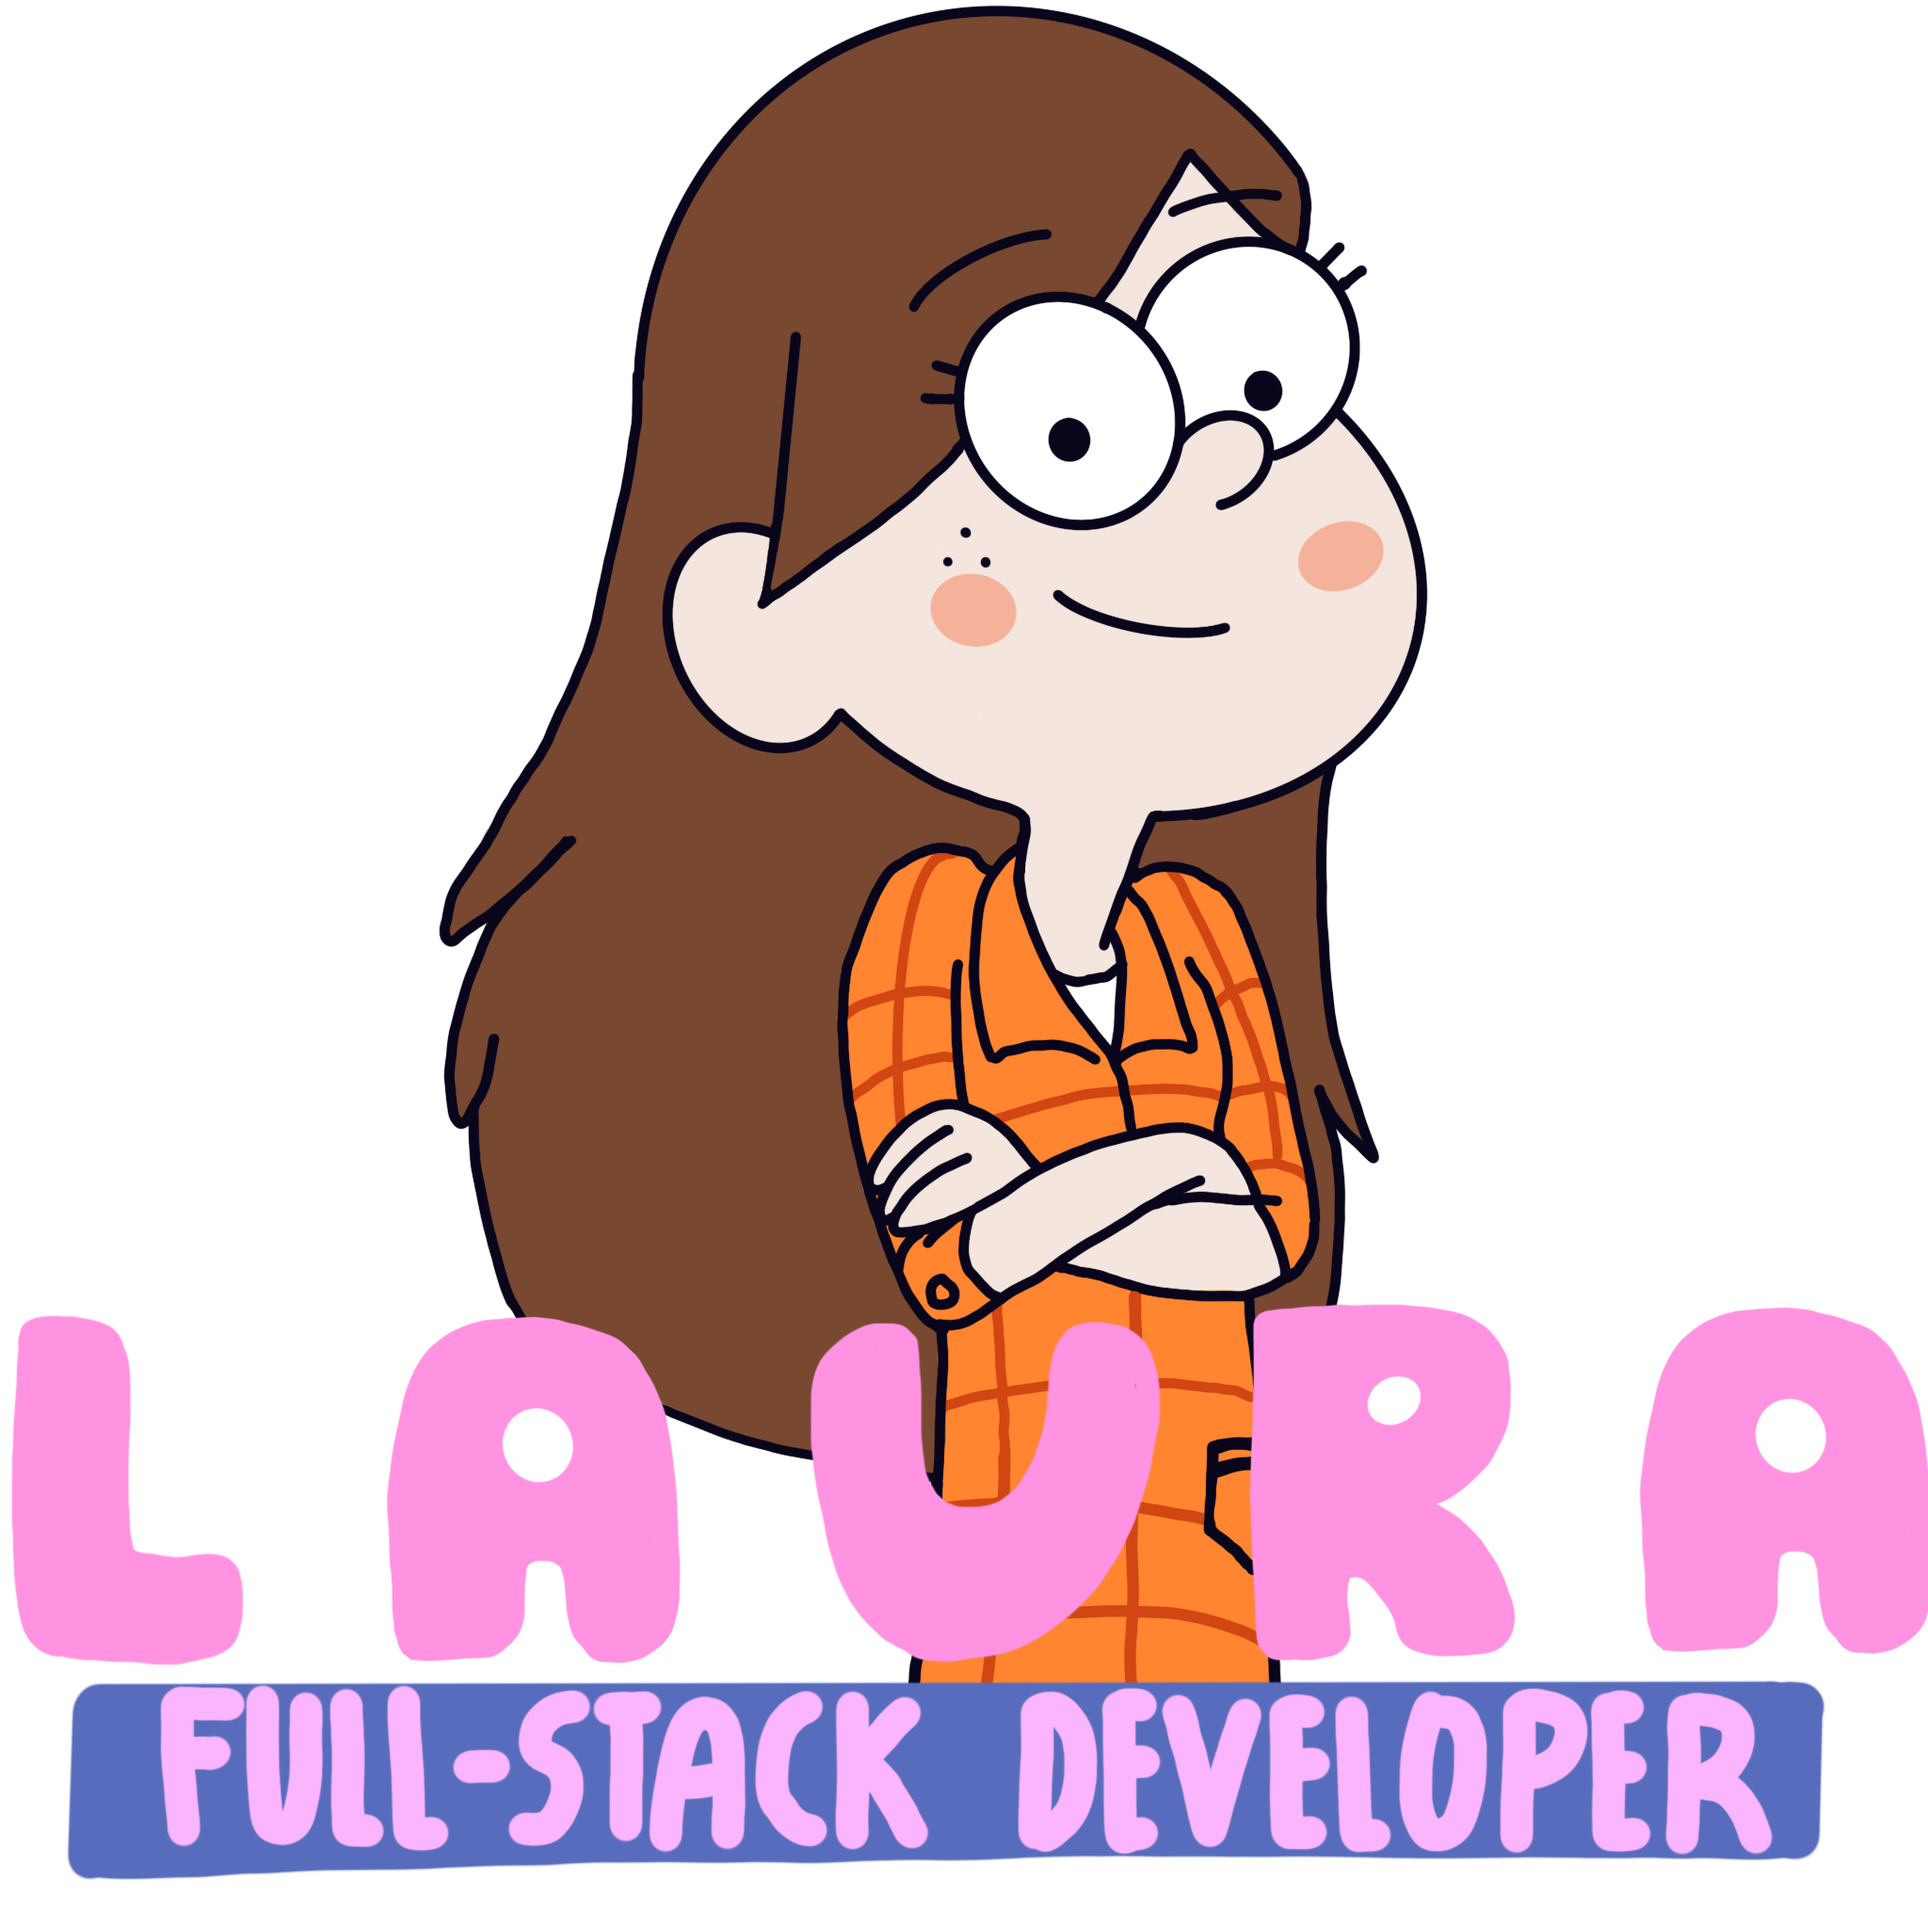
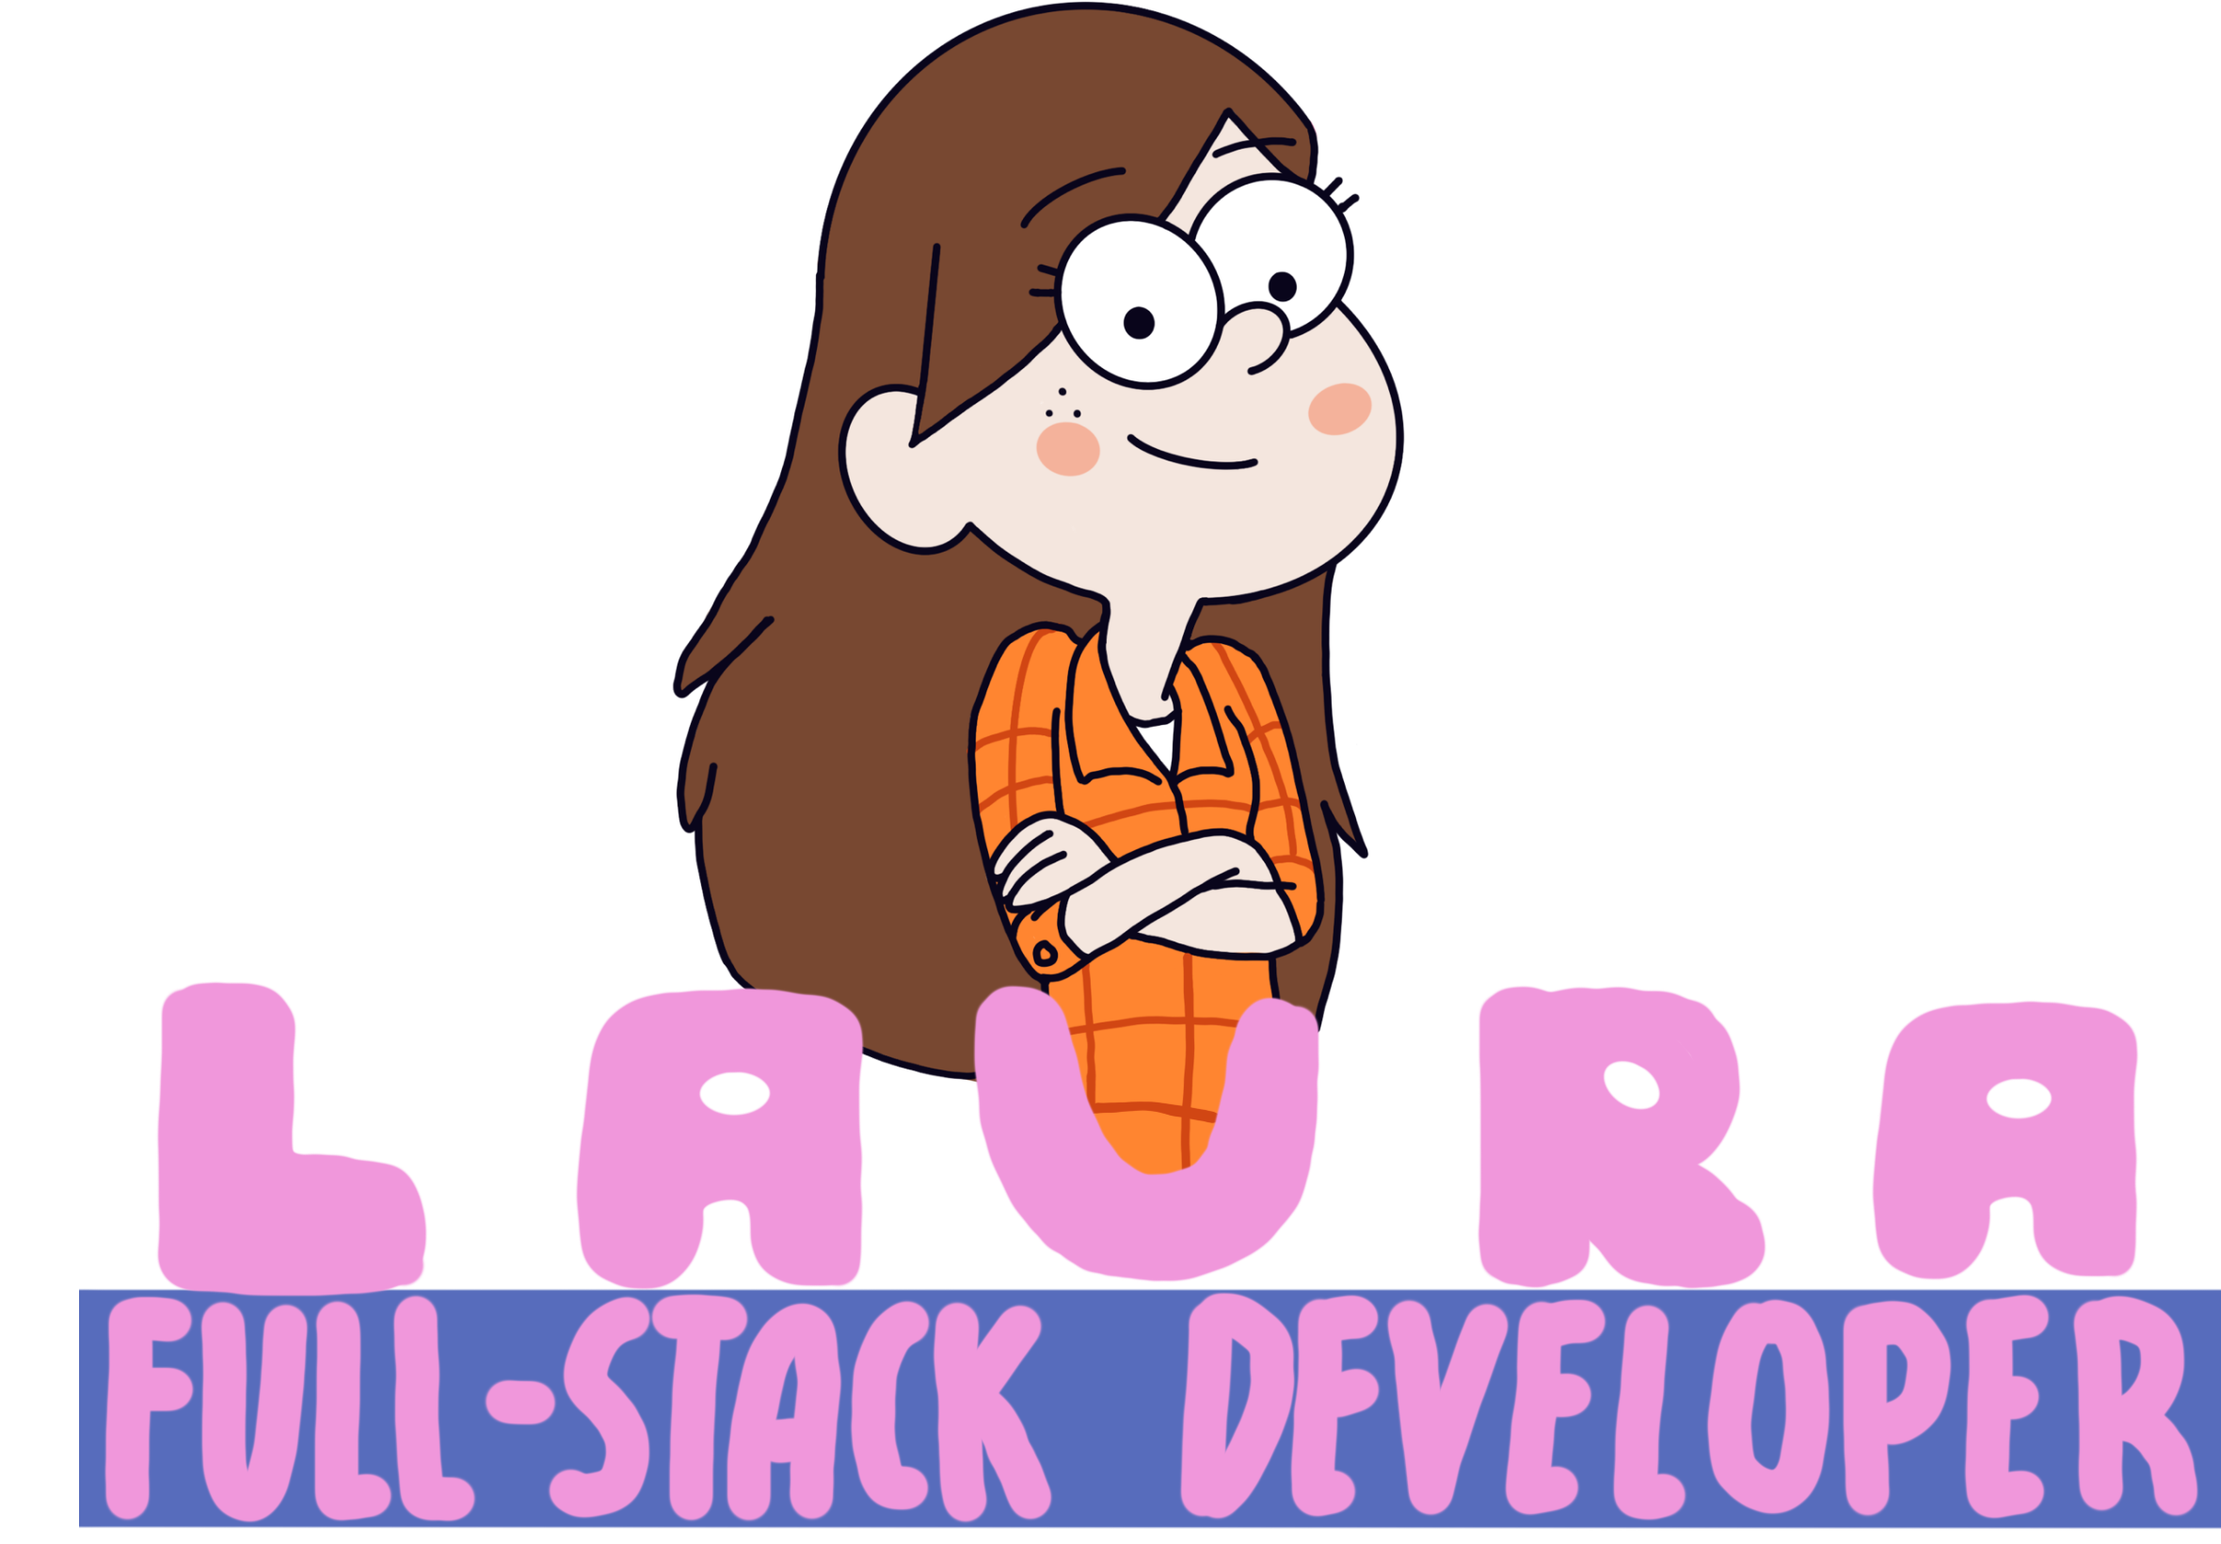
nicer hero

diff --git a/src/components/About/About.module.css b/src/components/About/About.module.css
@@ -5,7 +5,7 @@
     background-color: rgba(87,108,188, 0.6);
     border-radius: 15px;
     padding: 73px;
-    margin-top: 129px;
+    margin-top: 30px;
     z-index: 1;
     margin-left: 10%;
     margin-right: 10%;

diff --git a/src/components/Hero/Hero.module.css b/src/components/Hero/Hero.module.css
@@ -12,9 +12,8 @@
 }
 
 .heroImg {
-    width: 30%;
+    width: 58%;
     z-index: 1;
-    margin: 0;
 
     animation-name: floating;
     animation-duration: 3s;
